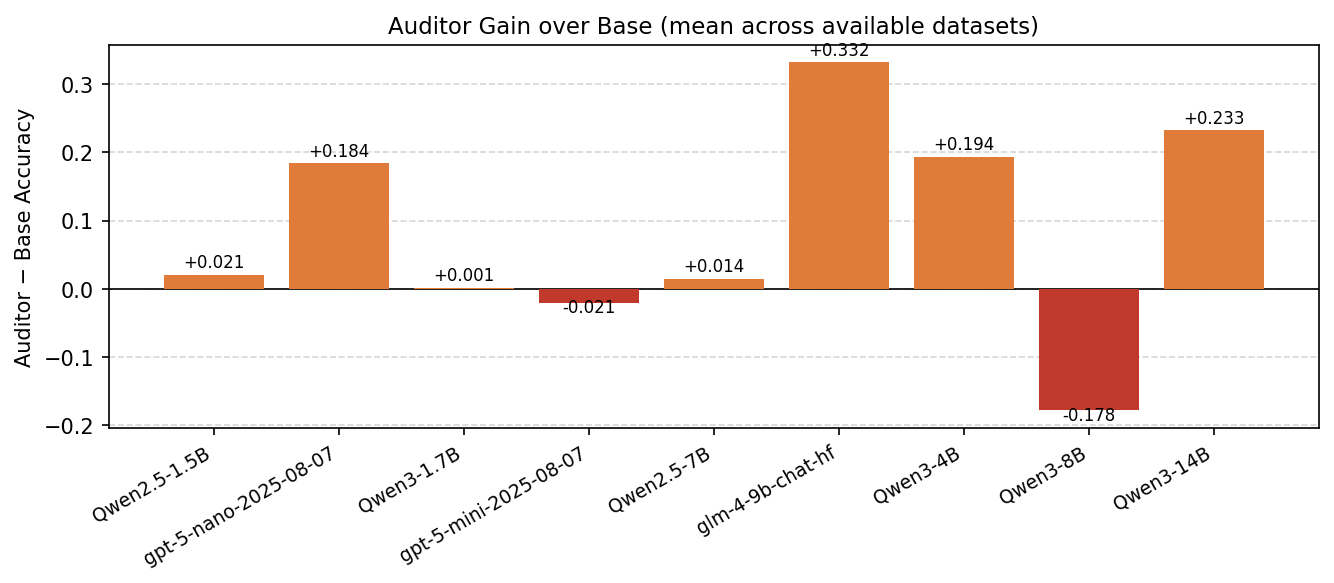
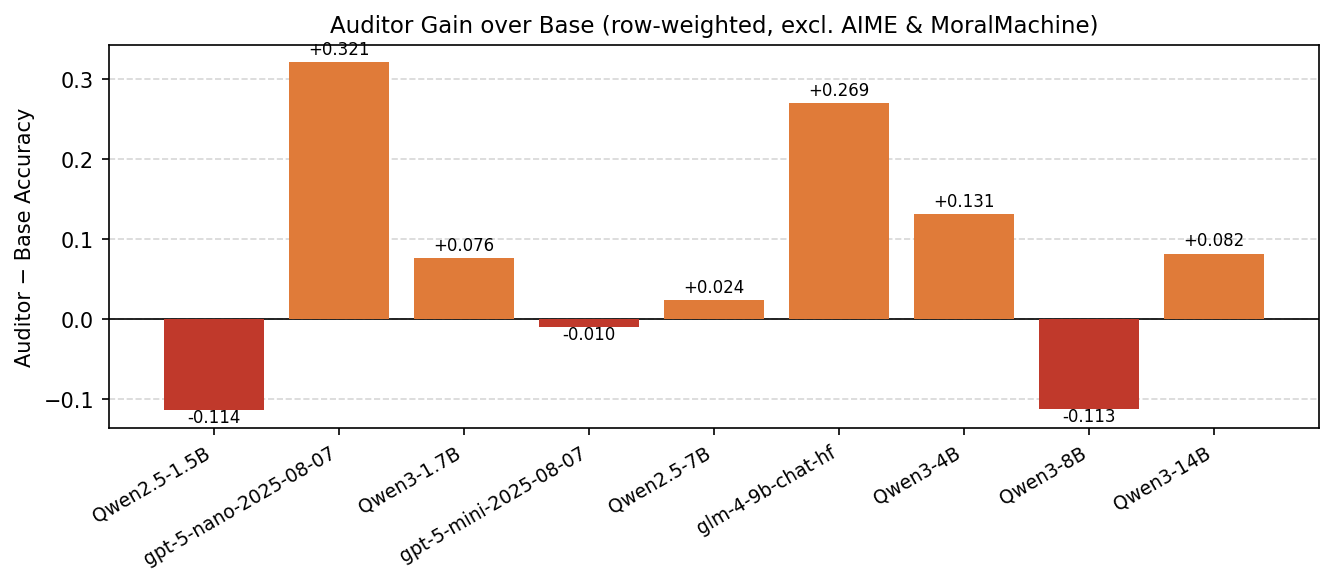
Update model x method analysis: row-weighted accuracy, exclude AIME & MoralMachine
- Weight dataset contributions by row count instead of simple mean
- Remove AIME and MoralMachine from aggregation
- Regenerate all three summary visuals

https://claude.ai/code/session_014ywgEPu7pi1Aw4HH2SWQWR

diff --git a/scripts/plot_model_method_accuracy.py b/scripts/plot_model_method_accuracy.py
@@ -16,8 +16,8 @@ RESULTS_DIR = Path("results")
 VISUALS_DIR = Path("visuals")
 
 DATASETS = [
-    "AIME", "FEVEROUS", "HotelBookings", "JFLEG",
-    "LendingClub", "MoralMachine", "MovieLens", "Uber", "WikipediaToxicity",
+    "FEVEROUS", "HotelBookings", "JFLEG",
+    "LendingClub", "MovieLens", "Uber", "WikipediaToxicity",
 ]
 MODELS = [
     "Qwen2.5-1.5B-Instruct", "gpt-5-nano-2025-08-07", "Qwen3-1.7B",
@@ -35,21 +35,23 @@ def ground_truth_col(df):
     return "Answer" if "Answer" in df.columns else "human_response"
 
 
-def compute_accuracy(df, dataset):
+def compute_counts(df, dataset):
+    """Return (n_correct, n_rows) for row-weighted aggregation. Returns (nan, 0) for text-gen."""
     if dataset in TEXT_GEN_DATASETS:
-        return np.nan
+        return np.nan, 0
     valid = df[df["llm_delegate"].notna()].copy()
     if valid.empty:
-        return np.nan
+        return np.nan, 0
     gt_col = ground_truth_col(df)
     pred = pd.to_numeric(valid["llm_prediction"], errors="coerce")
     truth = pd.to_numeric(valid[gt_col], errors="coerce")
     correct_implemented = (valid["llm_delegate"] == 0) & (pred == truth)
     delegated = valid["llm_delegate"] == 1
-    return (correct_implemented | delegated).mean()
+    n_correct = (correct_implemented | delegated).sum()
+    return n_correct, len(valid)
 
 
-# Build records: (model, mode, dataset, accuracy)
+# Build records: (model, mode, dataset, n_correct, n_rows)
 records = []
 for model in MODELS:
     for dataset in DATASETS:
@@ -60,14 +62,18 @@ for model in MODELS:
             df = pd.read_csv(filepath)
             method = df["method"].dropna().iloc[0]
             mode = "tool" if method in TOOL_METHODS else method
-            acc = compute_accuracy(df, dataset)
-            if not np.isnan(acc):
-                records.append({"model": model, "mode": mode, "dataset": dataset, "accuracy": acc})
+            n_correct, n_rows = compute_counts(df, dataset)
+            if n_rows > 0 and not np.isnan(n_correct):
+                records.append({"model": model, "mode": mode, "dataset": dataset,
+                                "n_correct": n_correct, "n_rows": n_rows})
 
 df_all = pd.DataFrame(records)
 
-# ── Figure 1: grouped bar chart, one group per model, bars = methods ──────────
-pivot = df_all.groupby(["model", "mode"])["accuracy"].mean().unstack("mode")
+# Row-weighted accuracy: sum(correct) / sum(rows) per (model, mode)
+def weighted_accuracy(grp):
+    return grp["n_correct"].sum() / grp["n_rows"].sum()
+
+pivot = df_all.groupby(["model", "mode"]).apply(weighted_accuracy).unstack("mode")
 pivot = pivot.reindex(index=MODELS, columns=MODE_ORDER)
 
 n_models = len(pivot)
@@ -92,8 +98,8 @@ for i, mode in enumerate(MODE_ORDER):
 ax.set_xticks(x)
 ax.set_xticklabels([m.replace("-Instruct", "") for m in MODELS], rotation=30, ha="right", fontsize=9)
 ax.set_ylim(0, 1.08)
-ax.set_ylabel("Mean Final Accuracy (across available datasets)", fontsize=10)
-ax.set_title("Final Accuracy by Model × Method\n(averaged over datasets where data exists)", fontsize=11)
+ax.set_ylabel("Final Accuracy (row-weighted across available datasets)", fontsize=10)
+ax.set_title("Final Accuracy by Model × Method\n(row-weighted, excl. AIME & MoralMachine)", fontsize=11)
 ax.legend(fontsize=10, frameon=False)
 ax.yaxis.grid(True, linestyle="--", alpha=0.5, zorder=0)
 ax.set_axisbelow(True)
@@ -119,7 +125,7 @@ ax2.axhline(0, color="black", linewidth=0.8)
 ax2.set_xticks(range(len(gain)))
 ax2.set_xticklabels([m.replace("-Instruct", "") for m in gain.index], rotation=30, ha="right", fontsize=9)
 ax2.set_ylabel("Auditor − Base Accuracy", fontsize=10)
-ax2.set_title("Auditor Gain over Base (mean across available datasets)", fontsize=11)
+ax2.set_title("Auditor Gain over Base (row-weighted, excl. AIME & MoralMachine)", fontsize=11)
 ax2.yaxis.grid(True, linestyle="--", alpha=0.5, zorder=0)
 ax2.set_axisbelow(True)
 plt.tight_layout()
@@ -129,7 +135,7 @@ plt.close()
 print(f"Saved {out2}")
 
 # ── Figure 3: per-dataset heatmap of auditor gain ─────────────────────────────
-pivot_ds = df_all.groupby(["model", "mode", "dataset"])["accuracy"].mean().unstack("mode")
+pivot_ds = df_all.groupby(["model", "mode", "dataset"]).apply(weighted_accuracy).unstack("mode")
 auditor_gain_ds = (pivot_ds["auditor"] - pivot_ds["base"]).unstack("dataset")
 auditor_gain_ds = auditor_gain_ds.reindex(index=MODELS)
 
